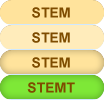
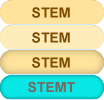
added images and style modifications

Changed region(s): [[0.0, 0.75, 1.0, 0.99]]

diff --git a/public/stylesheets/master.css b/public/stylesheets/master.css
@@ -959,6 +959,7 @@ body.life-cycles .nav li a.life-cycles {
     line-height: 40px; }
     .instruction h3 em {
       font-style: normal;
+	  font-size: 16px; text-transform: none;
       font-weight: bold; }
   .instruction .figure img {
     margin: 0 0 3px 10px;
@@ -1249,13 +1250,17 @@ h3.icon {
     float: left;
     height: 25px; }
     .actions li a {
-      padding: 5px 10px 0 2px;
+      padding: 5px 10px 0 5px;
       background: #cccccc;
       color: #444444;
       display: block;
       font-size: 11px;
       height: 20px;
-      text-shadow: 0 1px 1px white; }
+      text-shadow: 0 1px 1px white;
+				border-radius: 			5px; /* CSS3 */
+				-moz-border-radius: 	5px; /* Firefox */
+				-webkit-border-radius: 	5px; /* Safari and Chrome */
+				-khtml-border-radius: 	5px; /* Linux Browsers */ }
       .actions li a img {
         margin-right: 2px;
         vertical-align: top; }
@@ -1399,17 +1404,21 @@ h3.icon {
     .idea.teaser .posted {
       margin-bottom: 8px;
       padding-top: 10px;
-      height: 24px;
-      text-shadow: 0 1px 2px #dbedff; }
+      height: 24px; }
     .idea.teaser .entry-title {
       margin-bottom: 8px;
       line-height: 24px; }
       .idea.teaser .entry-title a {
         border-bottom-width: 2px; }
     .idea.teaser .vote {
-      background-color: #bbbbbb;
+      border: 1px solid #786860;
+	  padding: 2px;
       left: 9px;
-      top: 8px; }
+      top: 10px;
+	border-radius: 			5px; /* CSS3 */
+	-moz-border-radius: 	5px; /* Firefox */
+	-webkit-border-radius: 	5px; /* Safari and Chrome */
+	-khtml-border-radius: 	5px; /* Linux Browsers */ }
     .idea.teaser .vote-for-it a,
     .idea.teaser .vote-for-it span {
       margin-left: 3px;
@@ -1423,8 +1432,7 @@ h3.icon {
     .idea.teaser .vote-for-it span {
       background-position: left -75px; }
     .idea.teaser .entry-content p {
-      font-size: 13px;
-      text-shadow: 0 1px 2px #dbedff; }
+      font-size: 13px; }
     .idea.teaser .entry-meta {
       margin-bottom: 8px;
       padding: 6px 8px 4px;
@@ -1444,7 +1452,7 @@ h3.icon {
       background-image: url(../images/idea-flag.gif);
       height: 21px;
       position: absolute;
-      right: 8px;
+      right: 20px;
       top: 7px;
       width: 20px;
       background-color: transparent;
@@ -1539,7 +1547,7 @@ h3.icon {
       -webkit-border-bottom-right-radius: 4px;
       -webkit-border-bottom-left-radius: 4px; }
   .idea h3.entry-title, .idea h4.entry-title {
-    text-shadow: 0 1px 2px #dbedff; }
+     }
   .idea .vote-for-it a,
   .idea .vote-for-it span {
     background-color: transparent;
@@ -1550,7 +1558,7 @@ h3.icon {
     text-indent: -9000px; }
 
 .entry-title a:hover {
-  border-bottom: 1px solid #1c8af1; }
+  border-bottom: 1px solid #08e7e5; }
 
 .posted {
   clear: left;
@@ -1891,7 +1899,7 @@ h3.icon {
   font-size: 140%; }
 
 #intro h2, #intro h3 em, .instruction h3, .panel .header h2, .panel .header h3, .group > h3 {
-  font-family: Futura, "Futura Std", Arial, sans-serif; }
+  font-family: Futura, "Futura Std", Arial, sans-serif; font-size: 22px; text-transform: uppercase; }
 
 #search-wrap {
   padding-left: 20px; }
